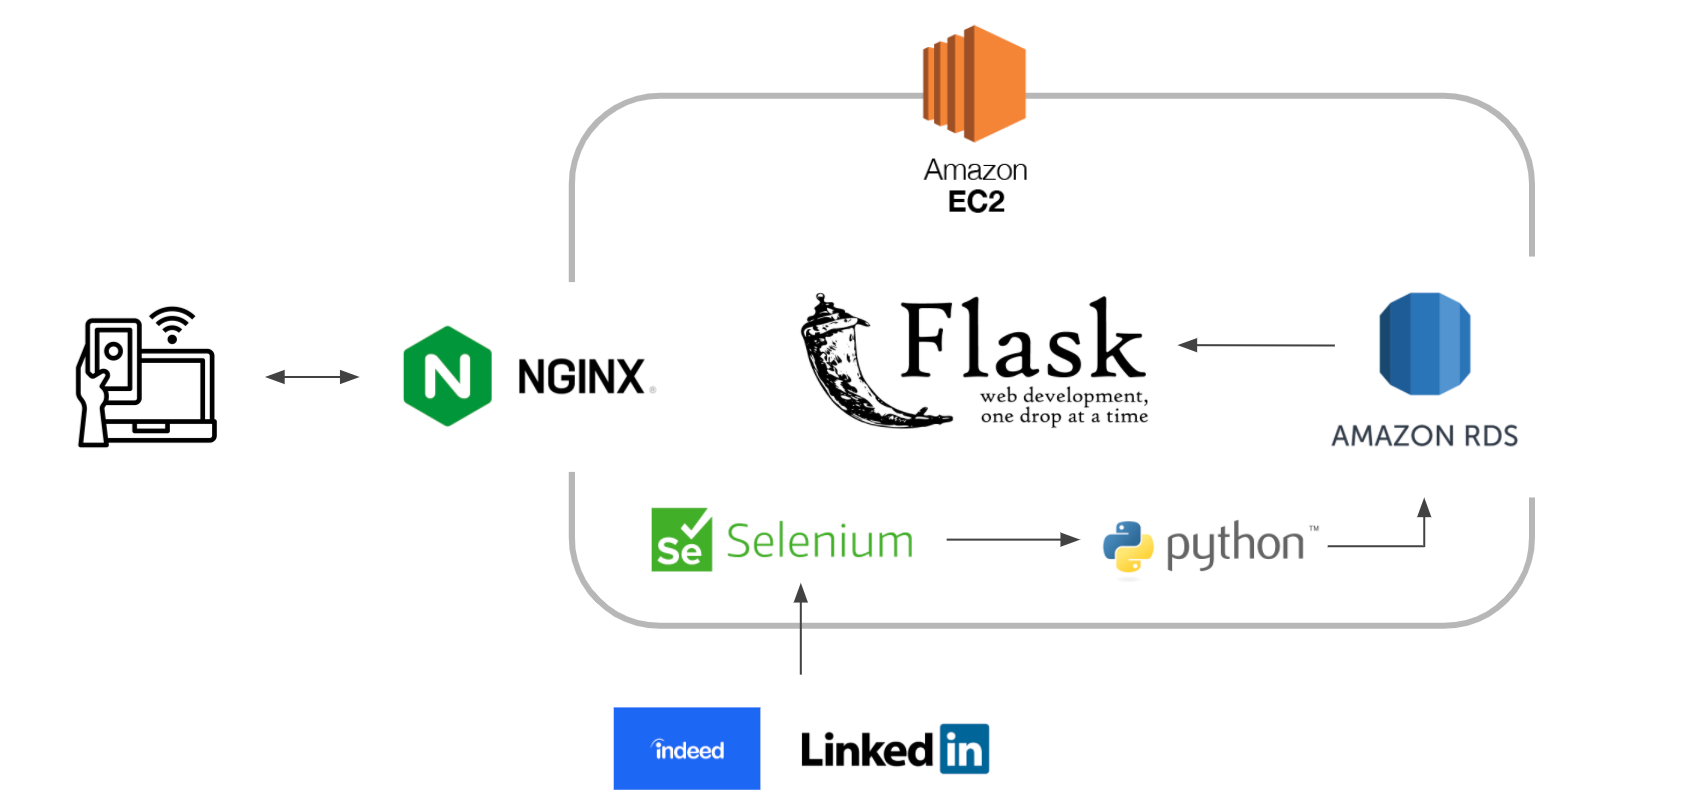
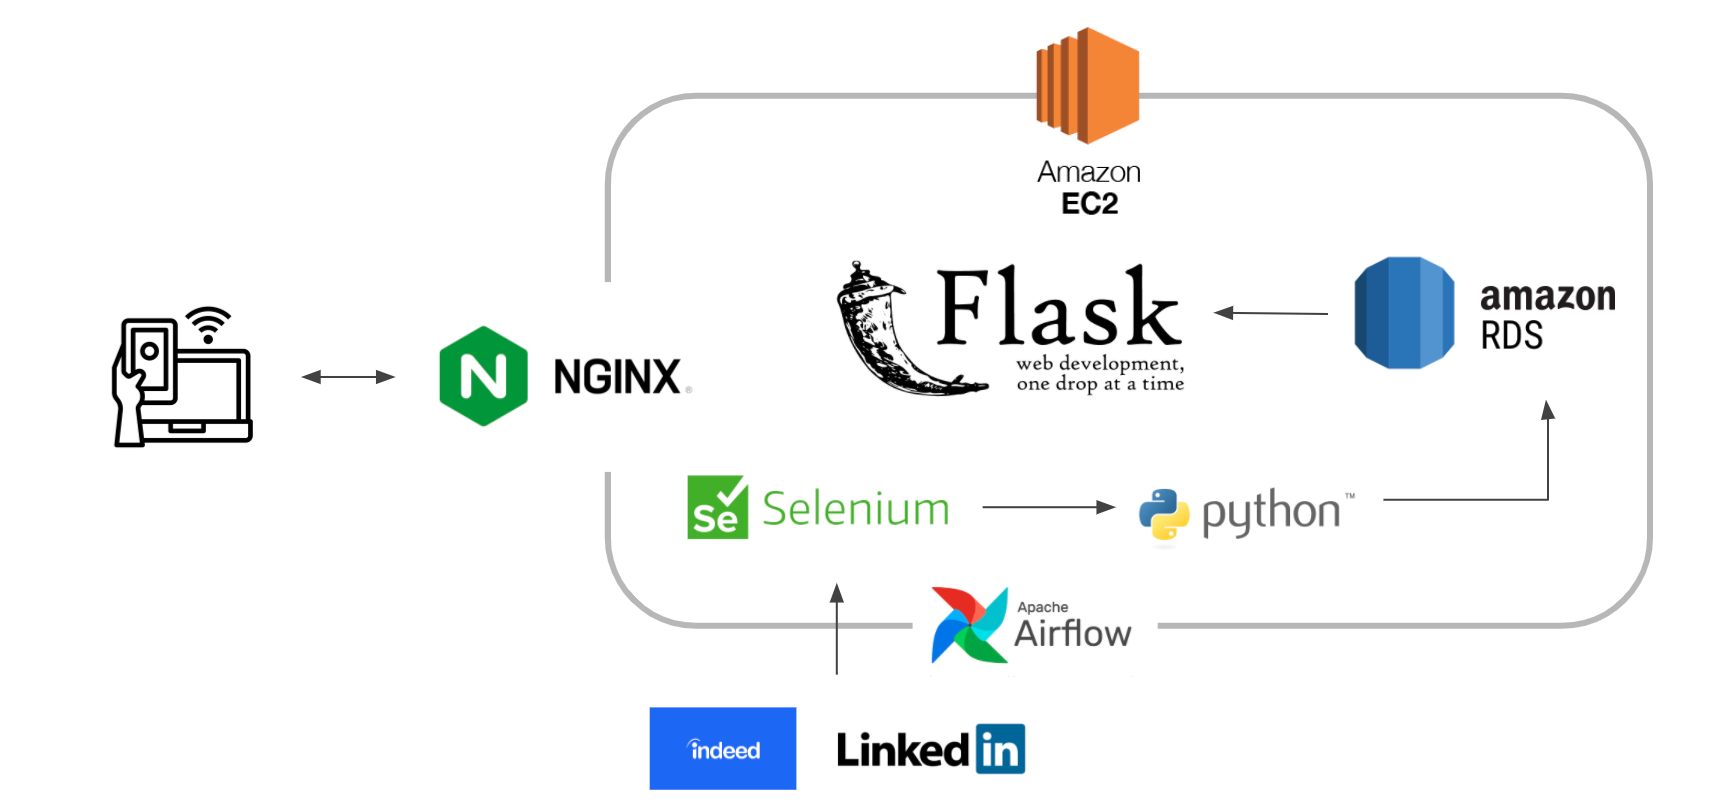
modify readme

diff --git a/README.md b/README.md
@@ -33,15 +33,26 @@ https://bkyproductjobhuntingdashboard.com/
 <li>Test: Unittest
 <li>Agile: Trello (Scrum)
 
-<h3>Database</h3>
+<h3>Database Design</h3>
 <li>MySQL
 
 <h2>Architecture</h2>
+<li> Build flask as server and deploy server on AWS EC2
+<li> Redirect port requests from clients by NGINX
+<li> Display information of API through AJAX 
 
-![image](https://github.com/bkyappworks/individual_project/blob/master/images/Architeture.png)
+![image](https://github.com/bkyappworks/individual_project/blob/master/images/architeture.png)
 <h2>Database</h2>
 
 ![image](https://github.com/bkyappworks/individual_project/blob/master/images/database_design.png)
-<h2>Data Flow</h2>
 
-![image](https://github.com/bkyappworks/individual_project/blob/master/images/Data%20Flow.png)
+<h2>Data Flow</h2>
+<li> Scrap jobs from Linkedin and Indeed by selenium and beautifulsoup
+<li> Implement Airflow to automate scraping once a week
+<li> Use ETL to clean and extract data from job description and save to AWS RDS
+
+![image](https://github.com/bkyappworks/individual_project/blob/master/images/data_flow.png)
+
+<h2>Contact</h2>
+
+beckyappworks@gmail.com
